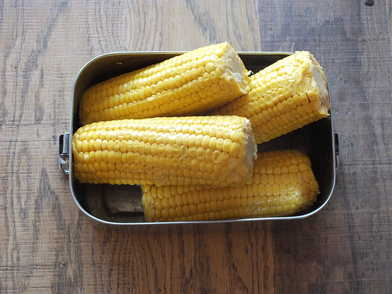
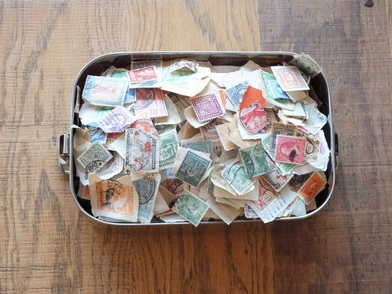
changed box images as requested in email from Liz. updated text in about, faq and contact pages. removed pre-order button for now.

diff --git a/ebox/templates/campaign/faq.html b/ebox/templates/campaign/faq.html
@@ -25,7 +25,9 @@
                                     <h5 class="title">Why stainless steel?</h5>
                                     <span class="month">March 15, 2015</span> </div>
                                 <div class="blog-content-out">
-                                    <p class="content">There is much talk in the press about the dangers of plastics. Stainless steel ranks top in terms of safest containers for food. Plastics leak chemicals. Our products are not manufactured using tin or aluminum, or cheaply mass produced. They are heavy-duty and meant to last for years. They are made of 202 grade stainless steels. Aluminium is often marketed as a cheap alternative to plastic. Aluminium is no stranger to the safety debate due to the link to Alzheimer’s. Most aluminium water bottles contain an interior plastic coating to protect the contents from exposure, but this leaves you with a plastic bottle (see above). The coating can also degrade over time, particularly if your bottle gets dented. Stainless steel may be marginally heavier but it’s also that bit tougher than aluminium and therefore less prone to scratches and dents.</p>
+                                    <p class="content">Stainless steel is the best material to use for carrying and storing food in. Its safe and durable and at the end of its long life it 100% recyclable. This box and all our products will be made out of 202 food grade stainless steel . The elephant box is tough. We guarantee it will last years. Its reliability is important to us.</p>
+                                    <p class="content">In 1950 1.5 million tonnes of plastic was produced world wide. That is just a drop in the ocean compared to the 300 million tonnes we now produce each year. And that number is set to keep on getting bigger. There is also the rising concern about the safety of some plastics and the chemical additives that go into them. See the blog for a more detailed analysis. We started Elephant box because we wanted to be part of the solution to the problem of plastic. We all use plastic boxes for something and now with Elephant Box there will be a choice. </p>
+                                    <p class="content">Aluminium is often marketed as a cheap alternative to plastic. Aluminium is no stranger to the safety debate due to the link to Alzheimer’s. Most aluminium water bottles contain an interior plastic coating to protect the contents from exposure, but this leaves you with a plastic bottle (see above). Plus the coating can degrade over time, particularly if your bottle gets dented. Stainless steel may be marginally heavier but it’s also that bit tougher than aluminium and therefore less prone to scratches and dents.</p>
                                     </div>
                             </div>
                         </div>
@@ -40,7 +42,7 @@
                                     <h5 class="title">Can I put these products in the dishwasher?</h5>
                                     <span class="month">March 20, 2015</span> </div>
                                 <div class="blog-content-out">
-                                    <p class="content">Yes, all of our stainless steel products are safe to put in your dishwasher for cleaning. Unlike plastic, they will not hold odors or stain. You can also go traditional and wash them with soap and water!</p>
+                                    <p class="content">Yes, all of our stainless steel products are safe to put in your dishwasher for cleaning. unlike plastic, they will not hold odours or stain. </p>
                                     </div>
                             </div>
                         </div>
@@ -55,7 +57,7 @@
                                     <h5 class="title">Can I put them in a microwave?</h5>
                                     <span class="month">March 25, 2015</span> </div>
                                 <div class="blog-content-out">
-                                    <p class="content">No, but you can put them in the oven....</p>
+                                    <p class="content">No.</p>
                                     </div>
                             </div>
                         </div>
@@ -101,7 +103,7 @@
                                         <h5 class="title">What if I am not 100% happy with my product?</h5>
                                         <span class="month">March 30, 2015</span> </div>
                                     <div class="blog-content-out">
-                                        <p class="content">We provide a 100 % money back guarantee if you return the product to us within 28 days. We are proud of the materials and workmanship that goes into our product and back our products with a Lifetime Warranty. We expect your Elephant Box product to give you many years of faithful service, and we want to know if it has somehow failed to deliver. Normal wear and tear, including scratches and dents, are not covered under the Elephant Box warranty.</p>
+                                        <p class="content">We provide a 100 % money back guarantee if you return the product to us within 28 days. If there is a manufacturing fault with the box we offer a 10 year warranty. We are proud of the materials and workmanship that goes into our product and back our products with a 10 year Warranty. We expect your Elephant Box product to give you many years of faithful service, and we want to know if it has somehow failed to deliver. Normal wear and tear, including scratches and dents, are not covered under the Elephant Box warranty.</p>
                                         </div>
                                 </div>
                             </div>

diff --git a/ebox/templates/campaign/contact.html b/ebox/templates/campaign/contact.html
@@ -18,19 +18,14 @@
                     <div class="row contact-info os-animation" data-os-animation="fadeInUp">
                         <div class="col-md-6 col-sm-6 left-part">
                             <div class="head"> <span class="contact-title">how to reach us</span>
-                                <p class="content contact-text">Lorem Ipsum is simply dummy text of the printing and typesetting industry. Lorem Ipsum is simply dummy text of the printing and typesetting industry.</p>
+                                <p class="content contact-text">Please get in touch with us by email or using the contact form on this page.</p>
                             </div>
-                            <div class="head"> <span class="contact-title">our address</span>
-                                <p class="content contact-text address">Sturlly Technologies<br>
-                                    PO Box 16122, Collins Street West,<br>
-                                    Victoria 8007, United States.</p>
-                            </div>
+
                             <ul class="icon-list">
-                                <li><i class="fa fa-phone"></i>+61 123 456 7890</li>
                                 <li class="divider"></li>
-                                <li><i class="fa fa-envelope-o"></i><a href="mailto:no-reply@domain.com">no-reply@domain.com</a></li>
+                                <li><i class="fa fa-envelope-o"></i><a href="mailto:no-reply@domain.com">boxuk@gmail.com</a></li>
                                 <li class="divider"></li>
-                                <li><i class="fa fa-globe"></i><a href="javascript:;">www.domain.com</a></li>
+                                <li><i class="fa fa-globe"></i><a href="{% url 'index' %}">www.elephantbox.co.uk</a></li>
                             </ul>
                         </div>
                         <div class="col-md-6 col-sm-6 right-part">

diff --git a/ebox/templates/campaign/about_widget.html b/ebox/templates/campaign/about_widget.html
@@ -13,7 +13,7 @@
                             <div class="col-md-6 col-sm-6">
                                 <div class="margin-left">
                                     <h6>The Story</h6>
-                                    <p class="margin-top-med margin-bottom-med"><strong>Elephant Box is the first UK based company to develop a range of stainless steel food containers for the UK & European market. Our company was born from a simple goal. To create products that mean people can stop buying and using plastic.</strong></p>
+                                    <p class="margin-top-med margin-bottom-med"><strong>Elephant Box is the first UK based company to develop a range of stainless steel food containers for the UK & European market. Our company was born from a simple goal. To create quality products that mean people can stop buying and using plastic.</strong></p>
                                     <p>Back in 2010 an alternative to plastic for storing food was few and far between. Not only did Joy and I know plastic was harmful to both humans and the planet, things made of plastic just didn't last as well. We decided if Joy couldnt find a proper lunchbox for her kids to take to school, then we’d better go ahead and get one manufactured. Elephant Box was born...</p>
                                     <!--a class="small-button inner-link" href="#">Read More</a-->
                                 </div>

diff --git a/ebox/templates/campaign/info.html b/ebox/templates/campaign/info.html
@@ -3,7 +3,7 @@
                 <div class="container">
                     <div class="row display-inline">
                         <div class=" clear-both">
-                            <div class="col-md-12 col-sm-12 description dark-gray-text big text-justify"><p></p><p>Fed up with buying plastic?</p>Elephant Box is a brand new, never-seen-before stainless steel lunch box. A revolutionary real alternative to plastic containers.</p><p>We’ll be launching our Crowdfunder campaign at the end of April, giving you the chance to <strong><a href="https://www.crowdfunder.com/" target="_blank">pre-order an Elephant Box</a></strong> or to take advantage of one of our other tempting incentives.</p></div>
+                            <div class="col-md-12 col-sm-12 description dark-gray-text big text-justify"><p></p><p>Fed up with buying plastic?</p>Elephant Box is a brand new, never-seen-before stainless steel lunch box. A revolutionary real alternative to plastic containers.</p><p>We’ll be launching our Crowdfunder campaign at the end of April, giving you the chance to <strong><a href="#">pre-order an Elephant Box</a></strong> or to take advantage of one of our other tempting incentives.</p></div>
                         </div>
                     </div></div>
 

diff --git a/ebox/templates/campaign/header.html b/ebox/templates/campaign/header.html
@@ -33,7 +33,7 @@
                                 </div>
                                     <h1 class="intro">
                                     <span class="highlight">ELEPHANT BOX</span><br>
-                                        Stainless Steel Food Containers</h1>
+                                        stainless steel for life</h1>
 
                                 </div>
 
@@ -45,7 +45,7 @@
     <div class="col-md-8 col-sm-8 book-a-table">
             We're almost ready...<br>
             <!--a href="https://www.crowdfunder.com/" target="_blank" class="highlight-button inner-link" id="preorder">Pre-Order Now!</a-->
-            <a href="{% url "shop" %}" class="highlight-button inner-link" id="preorder">Pre-Order Now!</a>
+            <!--a href="{% url "shop" %}" class="highlight-button inner-link" id="preorder">Pre-Order Now!</a-->
         </div>
     </div>
 </div>

diff --git a/ebox/templates/campaign/index.html b/ebox/templates/campaign/index.html
@@ -11,6 +11,4 @@
 
         {% include "campaign/about_widget.html" %}
 
-
-        {% include "campaign/testimonial_widget.html" %}
 {% endblock content %}
